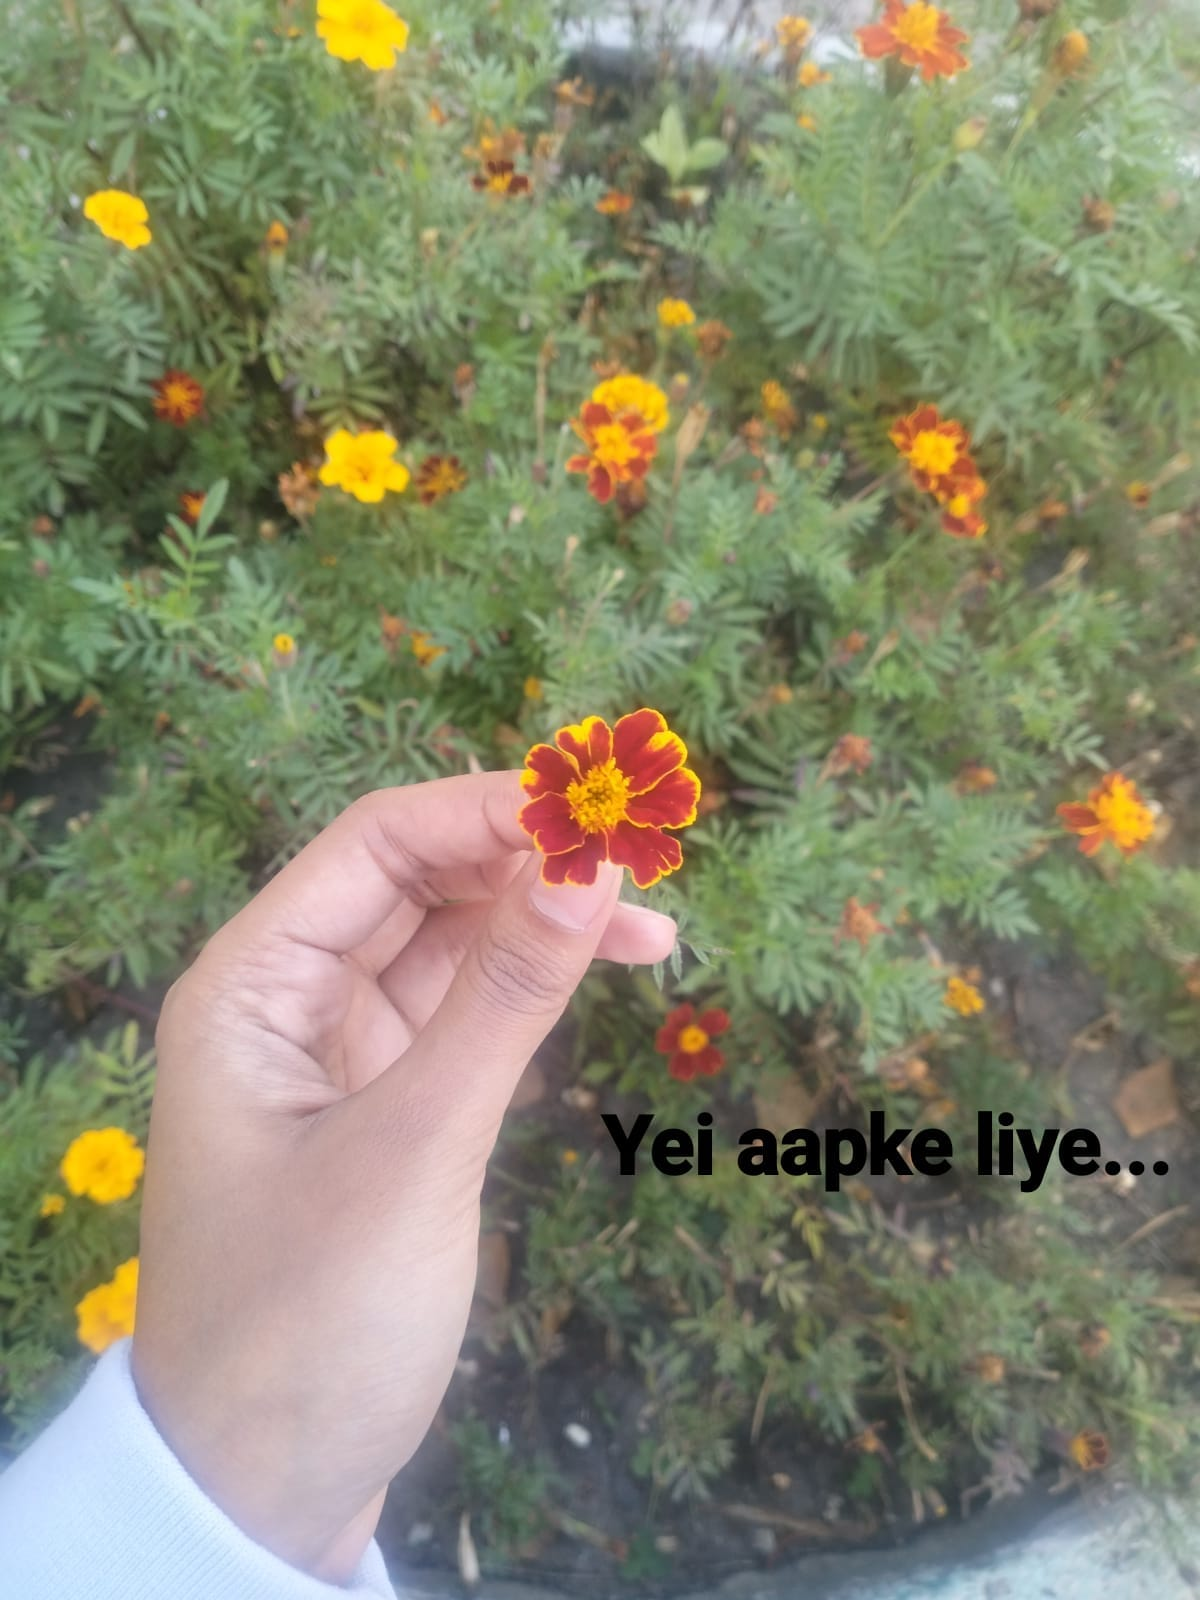
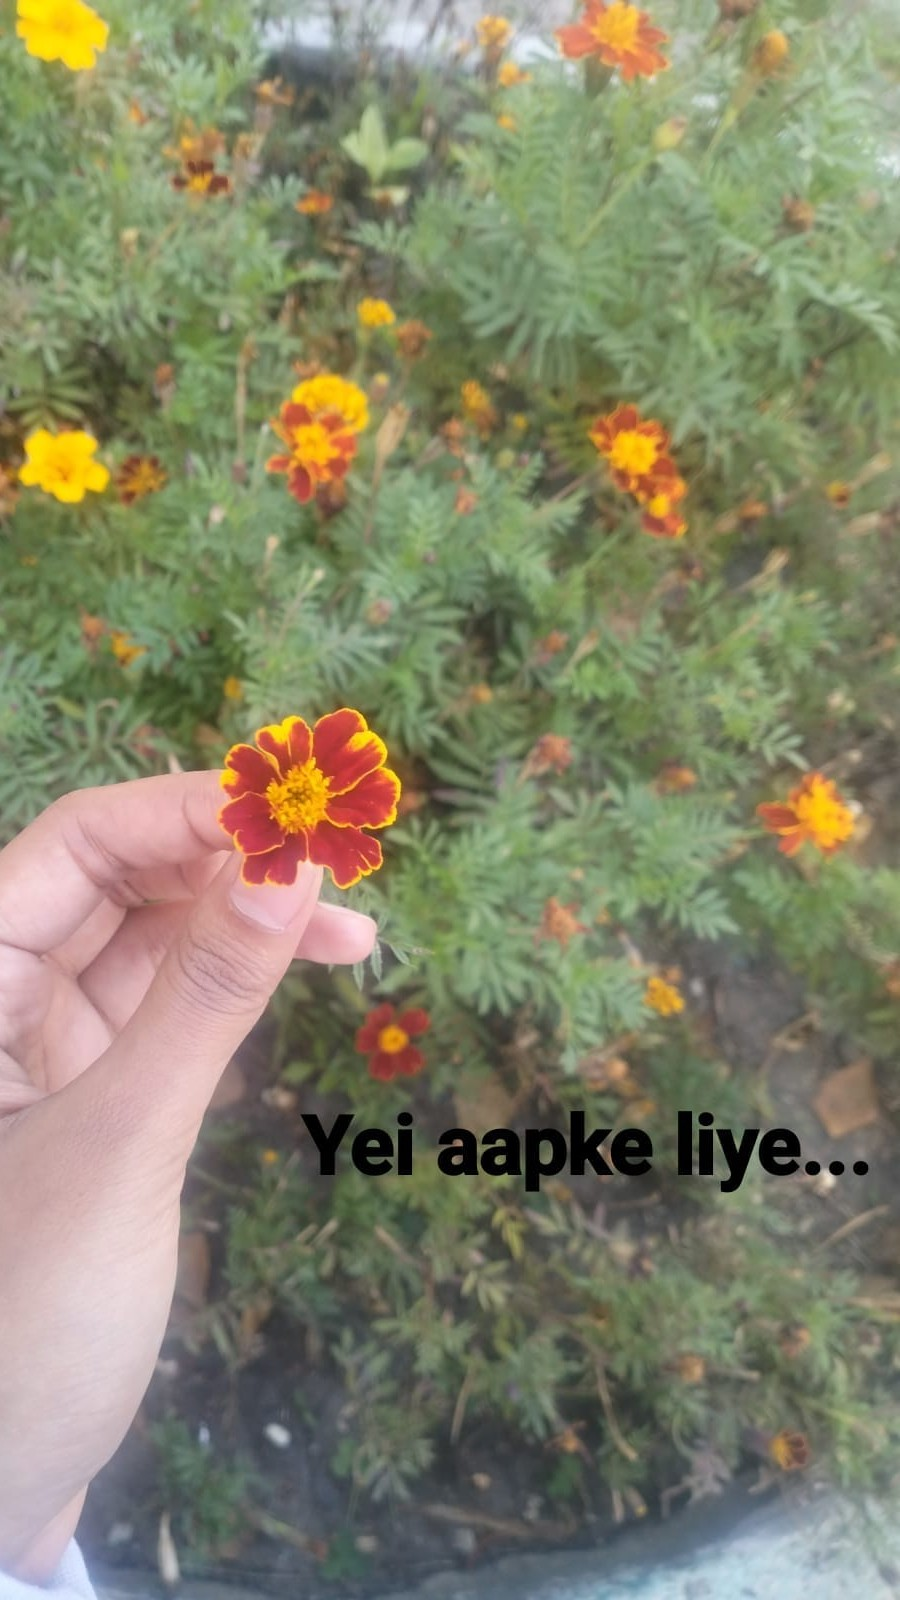
fix things again

diff --git a/src/pages/FewThings/FewThings.css b/src/pages/FewThings/FewThings.css
@@ -211,16 +211,17 @@
 }
 
 /* ==================================
-   POPUP MODAL (PERFECTLY CENTERED)
+   POPUP MODAL (BULLETPROOF SCROLL FIX)
 ================================== */
 .thing-modal {
   position: fixed;
   inset: 0;
   z-index: 9999;
   display: flex;
-  align-items: center; /* Center vertically on the screen */
-  justify-content: center; /* Center horizontally */
+  align-items: center; /* Centers vertically */
+  justify-content: center; /* Centers horizontally */
   pointer-events: none;
+  overscroll-behavior: none; /* Secondary lock to prevent background scrolling */
 }
 
 .thing-modal.open {
@@ -230,7 +231,7 @@
 .thing-modal-overlay {
   position: absolute;
   inset: 0;
-  background-color: rgba(0, 0, 0, 0.6); /* Slightly darker for better focus */
+  background-color: rgba(0, 0, 0, 0.6);
   backdrop-filter: blur(10px);
   opacity: 0;
   transition: opacity 0.5s ease;
@@ -245,15 +246,15 @@
   position: relative;
   z-index: 2;
   width: 90%;
-  max-width: 1000px; /* Slightly wider for the cinematic feel */
-  max-height: 85vh; /* STRICT HEIGHT: Prevents it from touching the top/bottom of the screen */
+  max-width: 1000px;
+  max-height: 85vh; /* Strictly keeps it inside the screen */
   background-color: var(--surface);
   border-radius: 16px;
   border: 1px solid var(--border);
   box-shadow: 0 40px 100px rgba(0, 0, 0, 0.4);
-  overflow: hidden; /* Clips everything neatly inside the rounded corners */
+  overflow: hidden;
 
-  /* Flex layout to contain the inner grid perfectly */
+  /* Flex setup ensures the close button stays still while inner content scrolls */
   display: flex;
   flex-direction: column;
 
@@ -291,25 +292,30 @@
   border-color: var(--accent);
 }
 
-/* 50/50 Layout for Desktop */
+/* 50/50 Layout for Desktop - THIS IS THE ONLY PART THAT SCROLLS */
 .modal-inner {
   display: grid;
   grid-template-columns: 1fr 1fr;
-  height: 100%; /* Fill the max-height of the parent */
-  overflow-y: auto; /* Put the scrollbar INSIDE the card if needed */
+
+  /* THE MAGIC FIX: */
+  flex: 1;
+  min-height: 0;
+  overflow-y: auto;
+  overscroll-behavior: none; /* Traps the mouse wheel right here! */
+  -webkit-overflow-scrolling: touch;
 }
 
-/* Let the image fill the left half beautifully */
 .modal-image-wrapper {
   width: 100%;
-  height: 100%;
+  height: auto;
+  aspect-ratio: 9 / 16;
 }
 
 .modal-image {
   width: 100%;
   height: 100%;
   object-fit: cover;
-  object-position: center 20%; /* Focuses slightly higher on her face */
+  object-position: center 20%;
   display: block;
 }
 
@@ -328,7 +334,7 @@
 }
 
 .modal-desc {
-  font-size: 1.15rem;
+  font-size: 1.1rem;
   line-height: 1.8;
   color: var(--text-muted);
 }
@@ -385,6 +391,8 @@
 
   .thing-modal-content {
     width: 95%;
+    max-height: 85vh;
+    border-radius: 12px;
   }
 
   .modal-inner {

diff --git a/src/pages/FewThings/FewThings.jsx b/src/pages/FewThings/FewThings.jsx
@@ -54,8 +54,7 @@ export default function FewThings() {
     return () => ctx.revert();
   }, []);
 
-  // Lock body scroll when modal is open
-  // Lock body & html scroll when modal is open (Fixes mobile Safari/Chrome bug)
+  // Lock body & html scroll when modal is open
   useEffect(() => {
     if (selectedItem) {
       document.body.style.overflow = "hidden";
